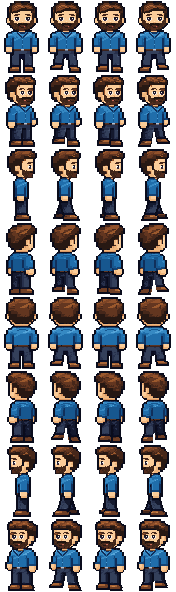
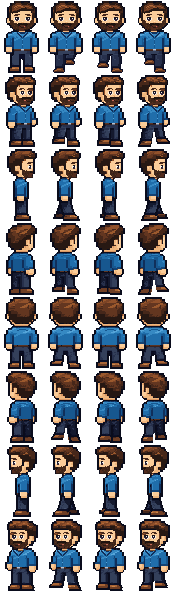
Marcha frontal masculina nueva (entrega Fase A): commit separado, se puede descartar sin tocar los logros
Claude-Session: https://claude.ai/code/session_019Fo2tZVZXrVgMWLNzj5gVe

Changed region(s): [[0.7955, 0.0912, 0.9659, 0.1216], [0.5398, 0.0912, 0.7102, 0.1216], [0.2841, 0.0912, 0.4545, 0.1216]]

diff --git a/scripts/build-pasos-masculinos.py b/scripts/build-pasos-masculinos.py
@@ -1,0 +1,61 @@
+"""Actualiza la marcha frontal a partir del arte integrado de la v40.18."""
+from pathlib import Path
+from PIL import Image, ImageDraw
+
+ROOT = Path(__file__).resolve().parents[1]
+FW = 44
+# Orden de los apoyos en la vista frontal, por columna del atlas.
+APOYOS = [
+    ((-1,-1,72),(0,1,67)),
+    ((0,0,72),(-2,-2,64)),
+    ((0,-1,67),(1,1,72)),
+    ((2,2,64),(0,0,72)),
+]
+
+def leg(draw, hip, side, pose):
+    knee_dx, shoe_dx, floor = pose
+    ankle = hip + shoe_dx
+    knee = hip + knee_dx
+    width = 5
+    knee_y = 59 if floor >= 67 else 58
+    ink, denim, light, shade = ('#0c0f27', '#27304c', '#34405b', '#14192e')
+    draw.polygon([(hip-width,51),(hip+width,51),(knee+width,knee_y),
+                  (ankle+width-1,floor-4),(ankle-width,floor-4),(knee-width,knee_y+2)],fill=ink)
+    draw.polygon([(hip-width+1,52),(hip+width-1,52),(knee+width-1,knee_y),
+                  (ankle+width-2,floor-5),(ankle-width+1,floor-5),(knee-width+1,knee_y+1)],fill=denim)
+    draw.line([(hip+width-2,53),(knee+width-2,knee_y+1),(ankle+width-3,floor-5)],fill=shade,width=2)
+    draw.line([(hip-width+2,53),(knee-width+2,knee_y-1),(knee-1,knee_y)],fill=light)
+    draw.line([(ankle-width+1,floor-6),(ankle+width-2,floor-6)],fill=shade)
+    # Punta ligeramente hacia fuera, talón que se recoge en el paso de cruce.
+    toe = ankle + (side if floor >= 70 else 0)
+    draw.polygon([(ankle-width+1,floor-5),(ankle+width-2,floor-5),
+                  (toe+width,floor-3),(toe+width,floor-1),(toe+width-1,floor),
+                  (toe-width,floor),(toe-width-1,floor-1),(toe-width-1,floor-2)],fill=ink)
+    leather,shine,shadow = ('#6f3e24','#a96535','#42251b')
+    draw.polygon([(ankle-width+2,floor-4),(ankle+width-3,floor-4),(toe+width-1,floor-2),
+                  (toe+width-1,floor-1),(toe-width,floor-1),(toe-width,floor-2)],fill=leather)
+    draw.line([(toe-width+1,floor-2),(toe-1,floor-3),(toe+1,floor-3)],fill=shine)
+    draw.line([(toe-width+1,floor-1),(toe+width-2,floor-1)],fill=shadow)
+
+
+
+def paso_frontal(celda, columna):
+    piernas = Image.new('RGBA', celda.size)
+    dibujo = ImageDraw.Draw(piernas)
+    poses = APOYOS[columna]
+    for lado in sorted(range(2), key=lambda i: poses[i][2]):
+        leg(dibujo, (16,27)[lado], (-1,1)[lado], poses[lado])
+    # Conservar cintura y manos del atlas premium, incluidos sus anclajes.
+    piernas.alpha_composite(celda.crop((0,0,FW,55)))
+    return piernas
+
+
+if __name__ == '__main__':
+    fuente = ROOT / 'arte/aprendiz/caminar/masculino-v40.18.png'
+    atlas = Image.open(fuente).convert('RGBA')
+    # La columna cero también se usa al detenerse en mapa, pasillo y combate.
+    for columna in (1, 2, 3):
+        x = columna * FW
+        original = atlas.crop((x, 0, x + FW, 74))
+        atlas.paste(paso_frontal(original, columna), (x, 0))
+    atlas.save(ROOT / 'img/aprendiz-masculino-premium-caminar.png', optimize=True)
